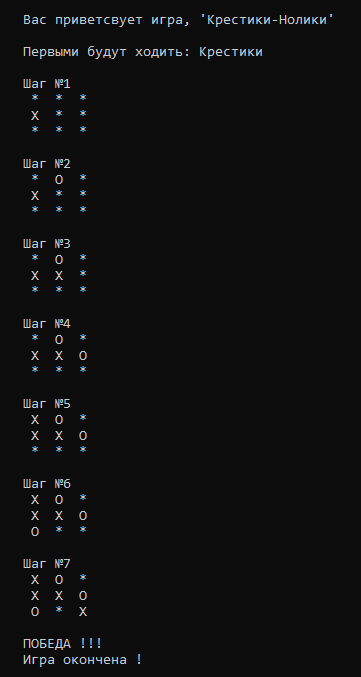
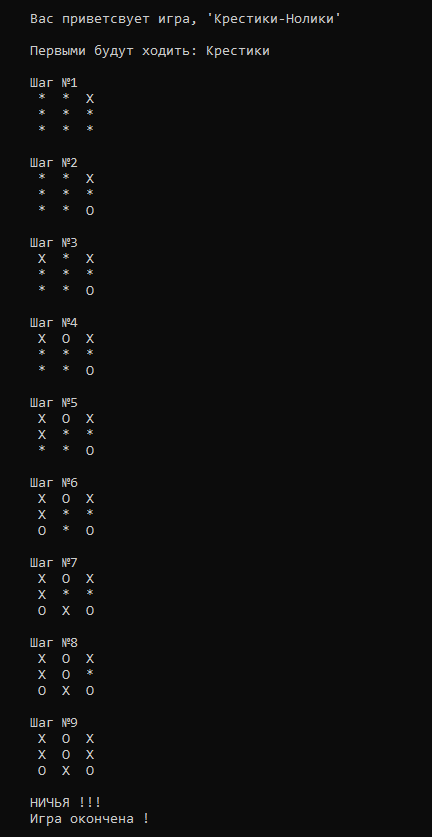
Game-1 | chaged it README.md

Changed region(s): [[0.0609, 0.0, 0.9141, 0.9926]]

diff --git a/README.md b/README.md
@@ -21,3 +21,7 @@ cd xo-game
 tsc
 node dist/tictactoe.js
 ```
+
+## Результат
+![Геймплей](screenshots/screen_01.png)
+![Геймплей](screenshots/screen_02.png)